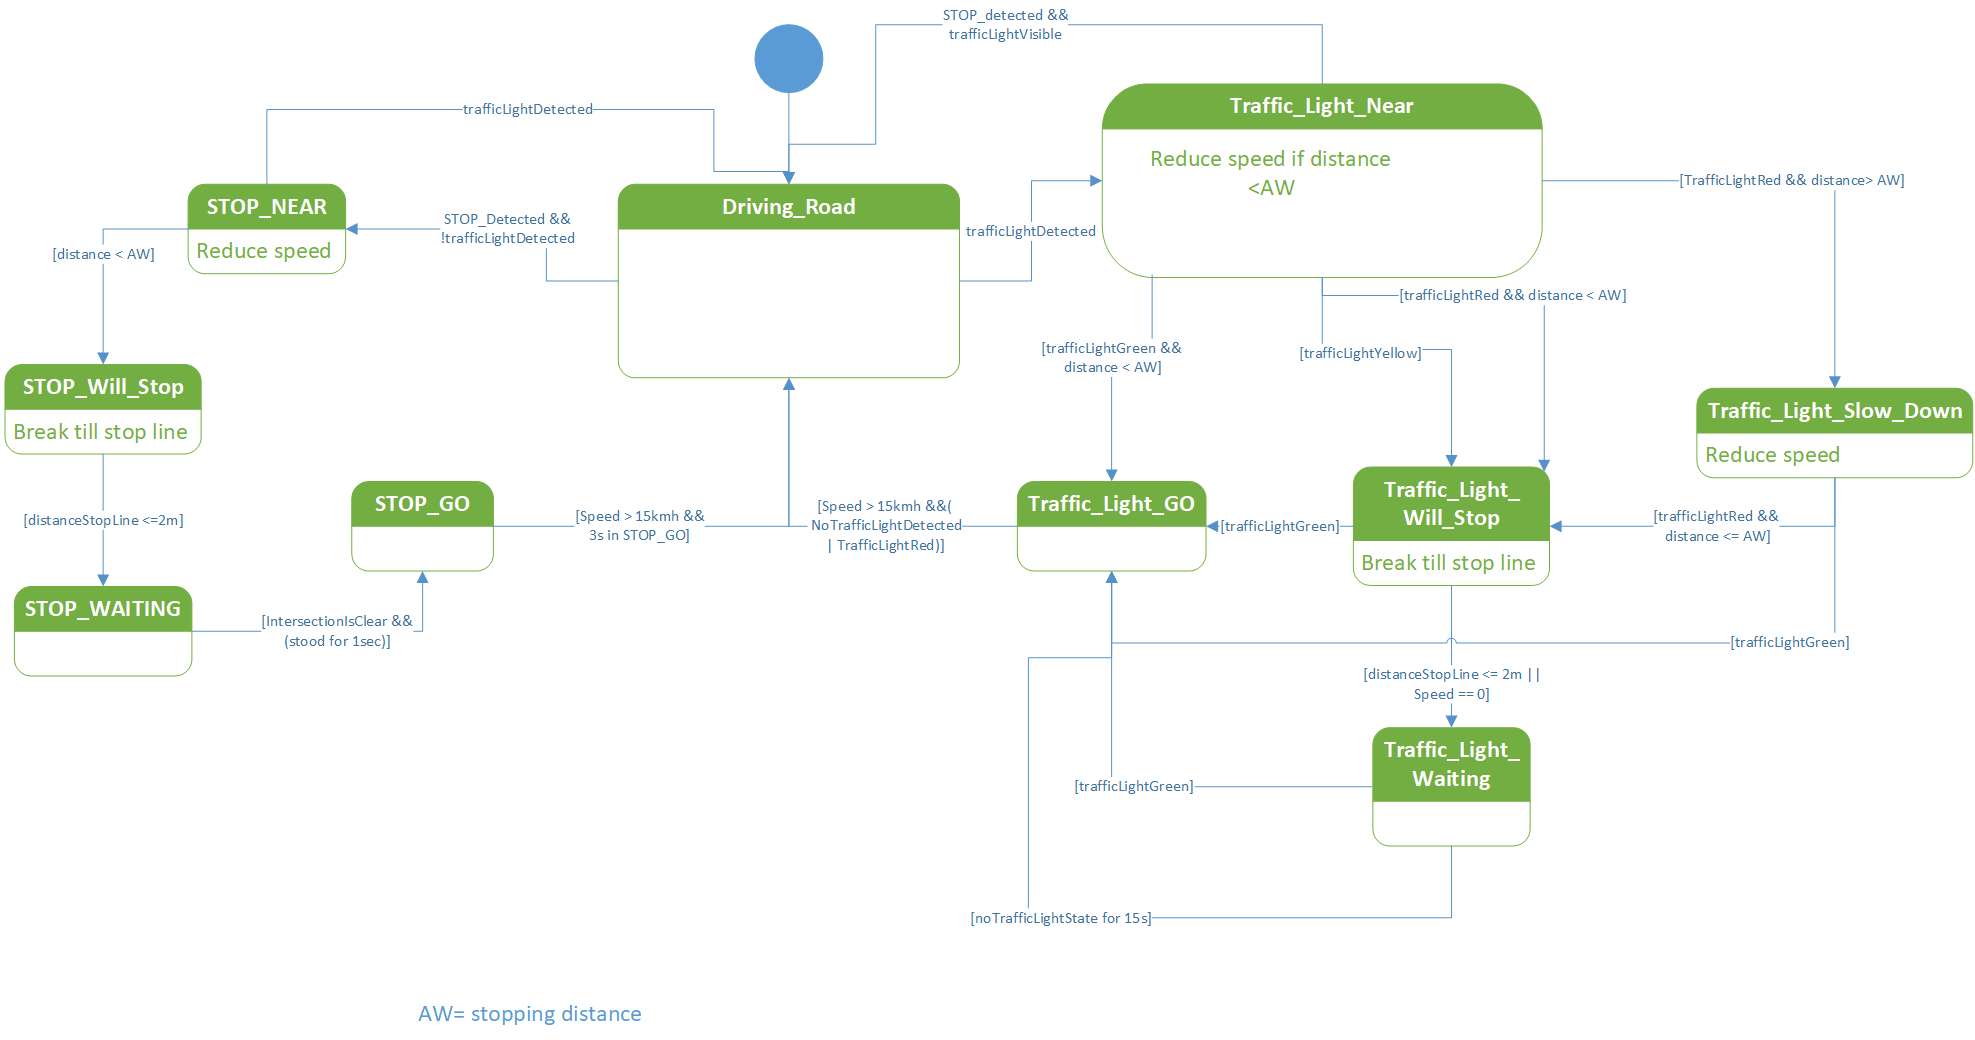
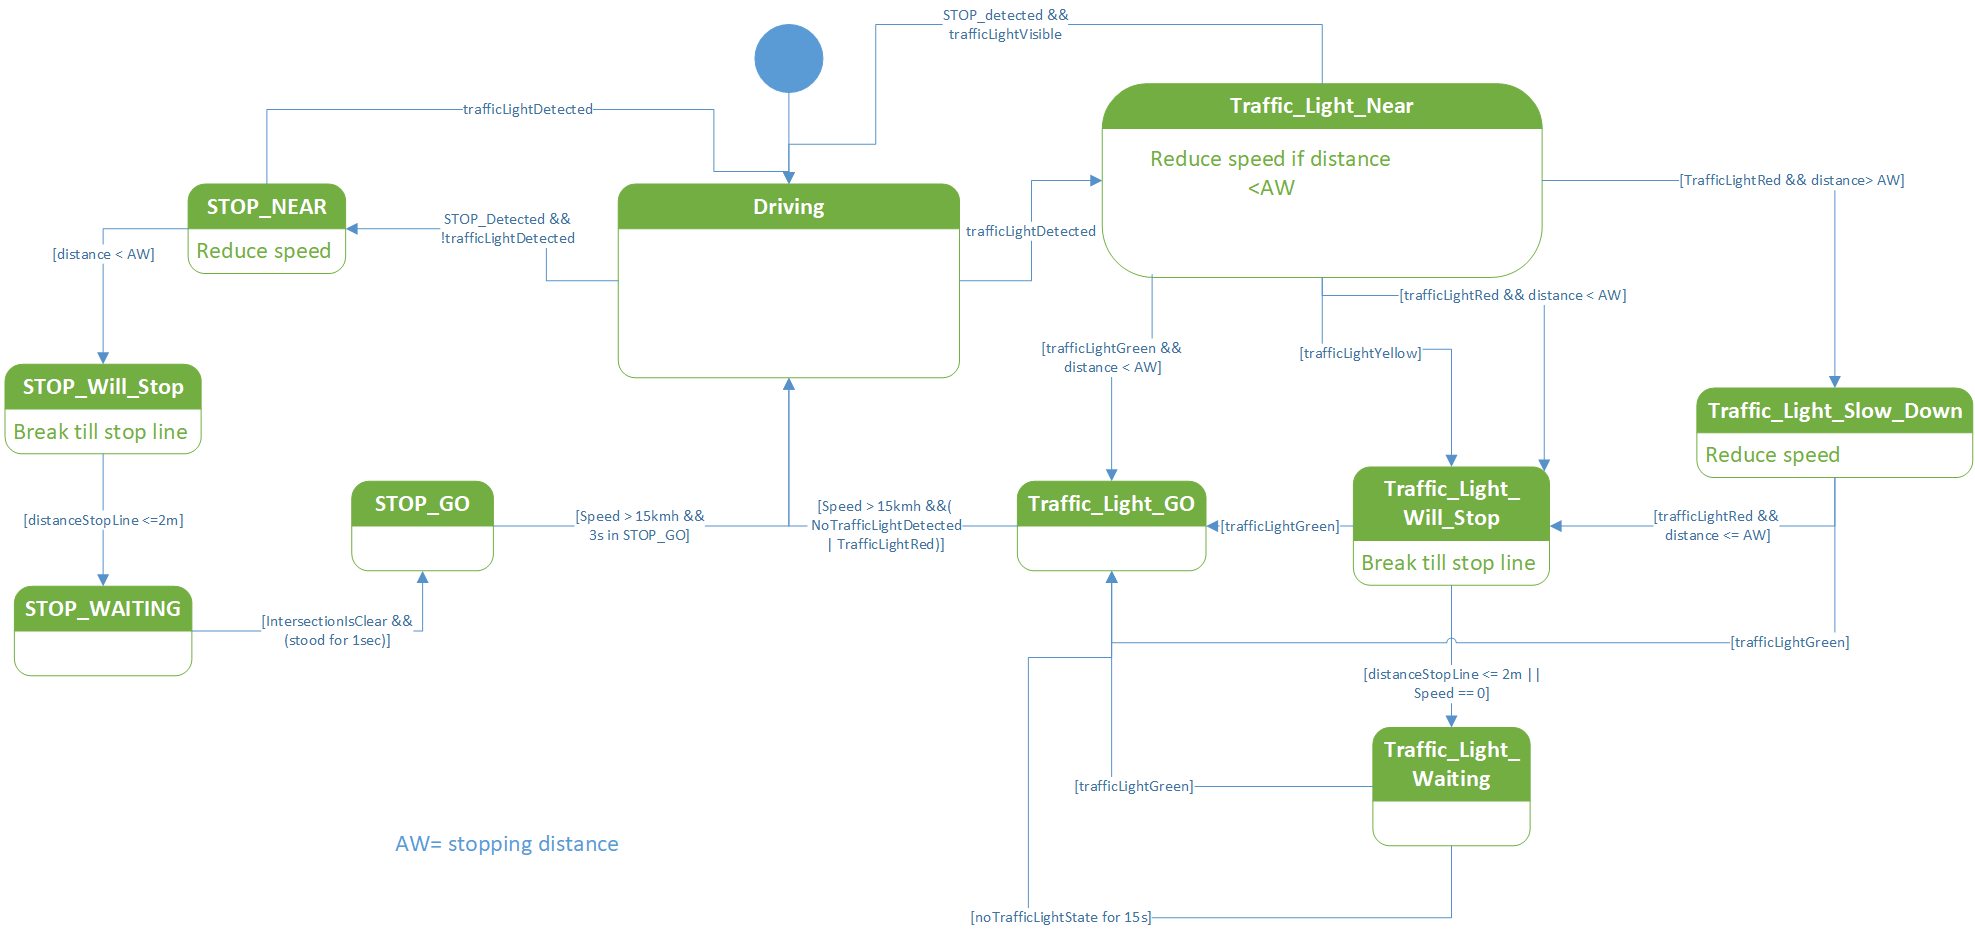
Improvements/traffic rules behaviour (#107)
* Reduce speed at tl if we know nothing about its state

* Reduce waiting time at stop to 1 sec

* Add doc

* Block braking in TRAFFIC_LIGHT_NEAR when we are close enough

* introduce constants

* introduce constants

* Add logging

* update state machine

* Update state chart

* Improve traffic light detector:
 - Tune resnet detector
 - Update criteria for bounding boxes

* FIX perception empty array bug

* Ignore traffic elements on last lanelet

* Change to stop state only when waiting at stopping line not behind another car

* When driving without traffic rules one stop at a intersection behind another car is enough

* Only accept a stop line if the map data indicates that

* Use lanelet data for stopping distance at american traffic lights

* Reduce diff in speed computation to stop in x meters because we stopped to early

* Use lanelet data if the traffic light distance is unreliable

* Increase distance to lanelet end when using lanelet data for american tl

* Ignore lanelet attribute during uturn

* Improve doc and add constant for min distance to centerline

* Fix ignore stop without traffic rules

* Update state charts

* Move sector for raytracing at intersection: increase ignorance area

diff --git a/psaf_ros/psaf_local_planner/src/psaf_local_planner/Util.cpp b/psaf_ros/psaf_local_planner/src/psaf_local_planner/Util.cpp
@@ -49,8 +49,14 @@ namespace psaf_local_planner
         // Distance to stop can be determined in two the distance to the end of the lanelet,
         // the distance to the traffic light on the right hand side or the distance to the stop line
         if(msg->distanceToStopLine<1e6){ // abstraction for infinity
-            // Use the stop line distance
-            this->stop_distance_at_intersection = msg->distanceToStopLine;
+            // Use the stop line distance only of it is plausible (= diff to computed value is <=10m)
+            // and when we are inside a stop state
+            double theoriaticalValue = this->computeDistanceToStoppingPointWithoutStopLine();
+            if(std::abs(theoriaticalValue - msg->distanceToStopLine)>10 && this->state_machine->isInStopStates()) {
+                this->stop_distance_at_intersection = theoriaticalValue;
+            }else {
+                this->stop_distance_at_intersection = msg->distanceToStopLine;
+            }
         }else{
             this->stop_distance_at_intersection = this->computeDistanceToStoppingPointWithoutStopLine();
         }
@@ -61,21 +67,31 @@ namespace psaf_local_planner
         if (state_machine->isInTrafficLightStates()){ // Use traffic light data only when in correct state
             // Use the traffic light distance if the perception already knows something
             if(this->traffic_light_state.state!=psaf_messages::TrafficLight::STATE_UNKNOWN){
-                // if the traffic light is on the other side of the intersection (american style)
-                if(this->traffic_light_state.x<0.8 && this->traffic_light_state.y<0.32 && traffic_light_state.distance>15.){
-                    // we keep 20 meters as distance
-                    return std::max(this->traffic_light_state.distance-30.,0.);
-                }else{
-                    // else the traffic_light is on the right hand side we want to stop 5 meters in front of it
+                // if the traffic_light is on the right hand side we want to stop 5 meters in front of it
+                if(this->traffic_light_state.x>0.6 && traffic_light_state.distance<15.){
                     return std::max(this->traffic_light_state.distance-5.,0.);
-                }
-            } else{ // if we don't have any other information we use the map data minus 10 meters as safety distance
-                    double distance_to_traffic_light = this->computeDistanceToUpcomingLaneletAttribute(&hasLaneletTrafficLight);
-                    if( distance_to_traffic_light <1e6){
-                        return std::max((distance_to_traffic_light-1),0.0);
+                }else{
+                    // else the traffic light is on the other side of the intersection (american style)
+                    // -> keep 30 meters as distance
+                    double distance_to_traffic_light_lanelet = this->computeDistanceToUpcomingLaneletAttribute(&hasLaneletTrafficLight);
+                    double distance_to_traffic_light_perception = std::max(this->traffic_light_state.distance-30.,0.);
+                    // Respect lanelet data for american traffic lights because the distance we want to keep depends
+                    // on the road size -> take the min value
+                    // only use the lanelet data if it has data about a tl nearby
+                    if(distance_to_traffic_light_lanelet<1e6 &&
+                          std::abs(distance_to_traffic_light_lanelet-distance_to_traffic_light_perception)<40){
+                        return std::max(distance_to_traffic_light_lanelet-2,distance_to_traffic_light_perception);
                     }
-                    // No success go to fallback return
+                    return distance_to_traffic_light_perception;
                 }
+            }
+            // if we don't have any other information we use the map data minus 1 meter as safety distance
+            double distance_to_traffic_light = this->computeDistanceToUpcomingLaneletAttribute(&hasLaneletTrafficLight);
+            if( distance_to_traffic_light <1e6){
+                return std::max((distance_to_traffic_light-1),0.0);
+            }
+            // No success go to fallback return
+
         }else if (state_machine->isInStopStates()) {
             // because we don't have any other information we use the map data
             double distance_to_stop = this->computeDistanceToUpcomingLaneletAttribute(&hasLaneletStop);
@@ -110,7 +126,7 @@ namespace psaf_local_planner
             return 0; // Drive very slow to stop line
         } else {
             return std::min(wishedSpeed, 25.0 / 18.0 * (-1 + std::sqrt(
-                    1 + 4 * (stoppingDistance - 2))));
+                    1 + 4 * (stoppingDistance - 1))));
         }
     }
 

diff --git a/psaf_ros/psaf_local_planner/src/psaf_local_planner/Intersection.cpp b/psaf_ros/psaf_local_planner/src/psaf_local_planner/Intersection.cpp
@@ -21,17 +21,24 @@ namespace psaf_local_planner {
 
         if (global_route.size() >= 2) { // at least two lanelets in list -> 1 lanelet isn't important
             // -> goal lanelet and don't care about a traffic light or stop
-            double distance = 0;
-            // iterate over upcoming lanelets in the route
-            for (auto lanelet : global_route) {
-                // sum up distance until lanelet is marked as intersection
-                distance += lanelet.route_portion.back().distance - lanelet.route_portion.front().distance;
-                if (attributeCheckFunction(lanelet)) {
-                    break;
+
+            // Check distance to lanelet to ignore attribute during a u-turn
+            psaf_messages::CenterLineExtended firstWayPoint = global_route.front().route_portion.front();
+            geometry_msgs::Point currentPos = this->current_pose.pose.position;
+            double distanceToLanelet = std::hypot(currentPos.x - firstWayPoint.x, currentPos.y - firstWayPoint.y);
+            if(distanceToLanelet < MIN_DISTANCE_TO_CENTERLINE_FOR_ATTRIBUTE_CHECK) {
+                double distance = 0;
+                // iterate over upcoming lanelets in the route
+                for (auto lanelet : global_route) {
+                    // sum up distance until lanelet is marked as intersection
+                    distance += lanelet.route_portion.back().distance - lanelet.route_portion.front().distance;
+                    if (attributeCheckFunction(lanelet)) {
+                        break;
+                    }
                 }
-            }
-            if(distance<=LANELET_CHECK_RADIUS){
-                return distance;
+                if (distance <= LANELET_CHECK_RADIUS) {
+                    return distance;
+                }
             }
         }
         return std::numeric_limits<double>::infinity();
@@ -56,7 +63,7 @@ namespace psaf_local_planner {
             if (this->respect_traffic_rules) {
                 is_intersection_clear = this->costmap_raytracer.checkForNoMovement(0.5 * M_PI, 22, 5);
             } else {
-                is_intersection_clear = this->costmap_raytracer.checkForNoMovement(0.5 * M_PI, 18, 5);
+                is_intersection_clear = this->costmap_raytracer.checkForNoMovement(0.5 * M_PI, 20, 5);
             }
         }
         this->state_machine->updateState(traffic_light_detected, stop_detected,

diff --git a/psaf_ros/psaf_local_planner/src/psaf_local_planner/StateMachine.cpp b/psaf_ros/psaf_local_planner/src/psaf_local_planner/StateMachine.cpp
@@ -158,14 +158,15 @@ namespace psaf_local_planner {
                 }
                 break;
             case LocalPlannerState::STOP_WILL_STOP:
-                if (distanceToStopLine <= MIN_DISTANCE_TO_STOP_LINE || currentSpeed < EQUIVALENT_TO_0_VEL) {
+                if (distanceToStopLine <= MIN_DISTANCE_TO_STOP_LINE) {
                     newState = LocalPlannerState::STOP_WAITING;
                     this->start_time_stop_waiting = currentTimeSec;
                 }
                 break;
             case LocalPlannerState::STOP_WAITING:
                 // Wait until intersection is clear and wait at least SEC_TO_WAIT_AT_STOP seconds
-                if (isIntersectionClear && (currentTimeSec - this->start_time_stop_waiting) > SEC_TO_WAIT_AT_STOP) {
+                if (isIntersectionClear && (currentTimeSec - this->start_time_stop_waiting) > SEC_TO_WAIT_AT_STOP
+                    && currentSpeed <= EQUIVALENT_TO_0_VEL) {
                     newState = LocalPlannerState::STOP_GO;
                     this->start_time_stop_go = currentTimeSec;
                 }
@@ -266,7 +267,7 @@ namespace psaf_local_planner {
                 }
                 break;
             case LocalPlannerState::STOP_WILL_STOP:
-                if (distanceToStopLine <= MIN_DISTANCE_TO_STOP_LINE || currentSpeed < EQUIVALENT_TO_0_VEL) {
+                if (distanceToStopLine <= MIN_DISTANCE_TO_STOP_LINE || currentSpeed <= EQUIVALENT_TO_0_VEL) {
                     newState = LocalPlannerState::STOP_WAITING;
                 }
                 break;
@@ -290,7 +291,7 @@ namespace psaf_local_planner {
     }
 
     bool LocalPlannerStateMachineWithoutTrafficRules::isInTrafficLightStates() {
-        return LocalPlannerStateMachineWithoutTrafficRules::isInStopStates();
+        return false;
     }
 
 

diff --git a/psaf_ros/psaf_local_planner/include/psaf_local_planner/costmap_raytracer.h b/psaf_ros/psaf_local_planner/include/psaf_local_planner/costmap_raytracer.h
@@ -85,7 +85,7 @@ namespace psaf_local_planner {
             static constexpr int MOVEMENT_CHECK_MAX_ITERATION_PAUSE_SECONDS = 3;
 
             /** Min distance which the obstacle should be away to be included in the movement check */
-            static constexpr int MOVEMENT_CHECK_MIN_DISTANCE = 7;
+            static constexpr int MOVEMENT_CHECK_MIN_DISTANCE = 8;
 
             /** Ros Seconds to keep a raytracing result for distance  */
             static constexpr int MOVEMENT_CHECK_SECONDS_TO_KEEP = 2;

diff --git a/psaf_ros/psaf_local_planner/include/psaf_local_planner/plugin_local_planner.h b/psaf_ros/psaf_local_planner/include/psaf_local_planner/plugin_local_planner.h
@@ -62,6 +62,8 @@
 // Constants
 // Check min radius for traffic elements in global plan
 #define MIN_CHECK_RADIUS_FOR_TRAFFIC_ELEMENTS 15.0
+// minimal distance to center line to prevent attribute check during an u-turn
+#define MIN_DISTANCE_TO_CENTERLINE_FOR_ATTRIBUTE_CHECK 2.0
 
 
 // Ensure that we work with the correct standard
